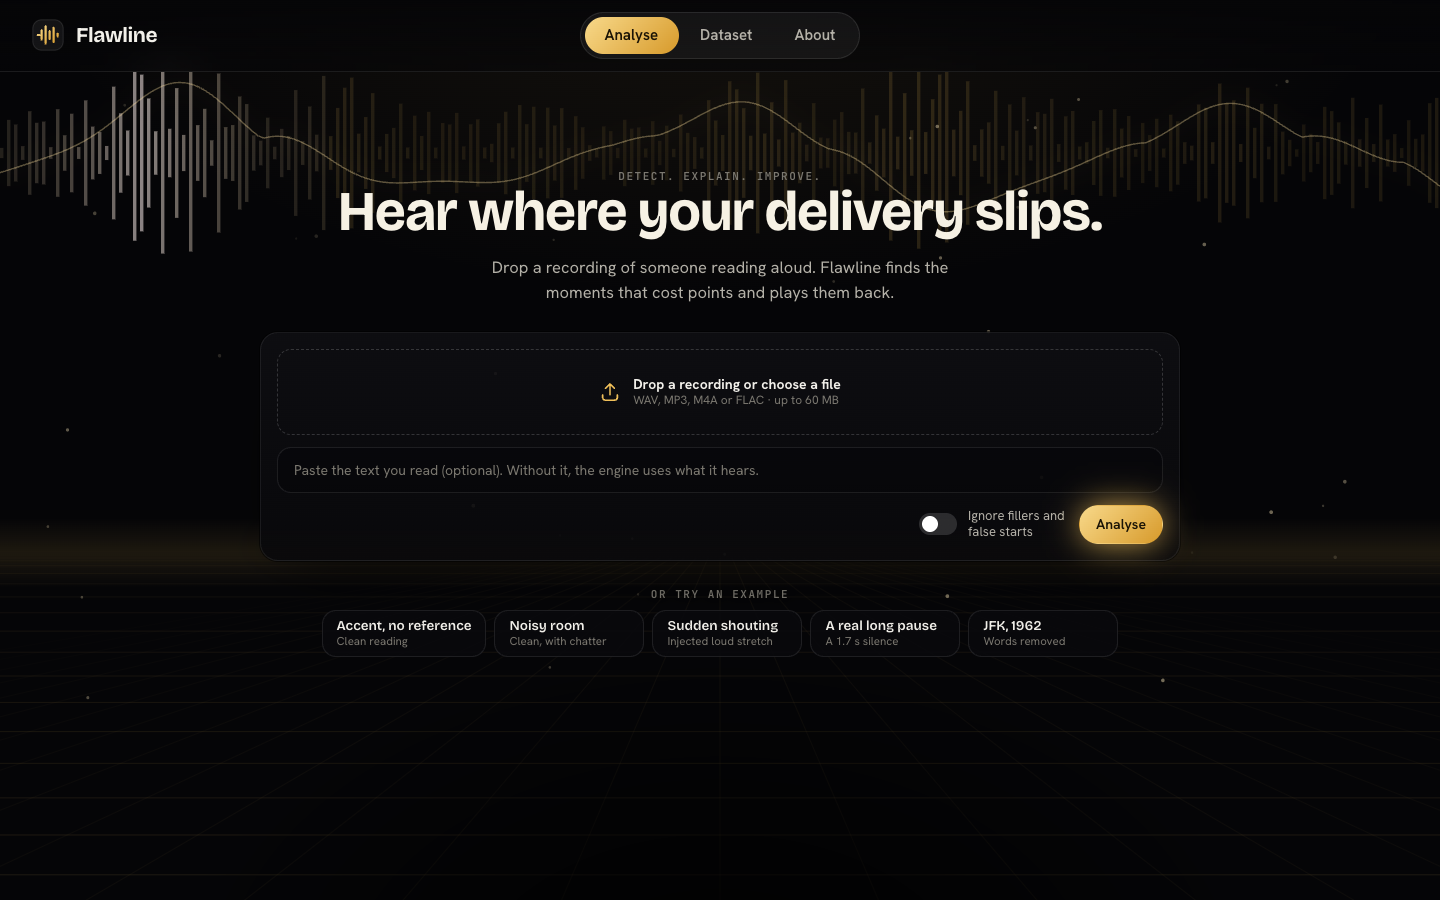
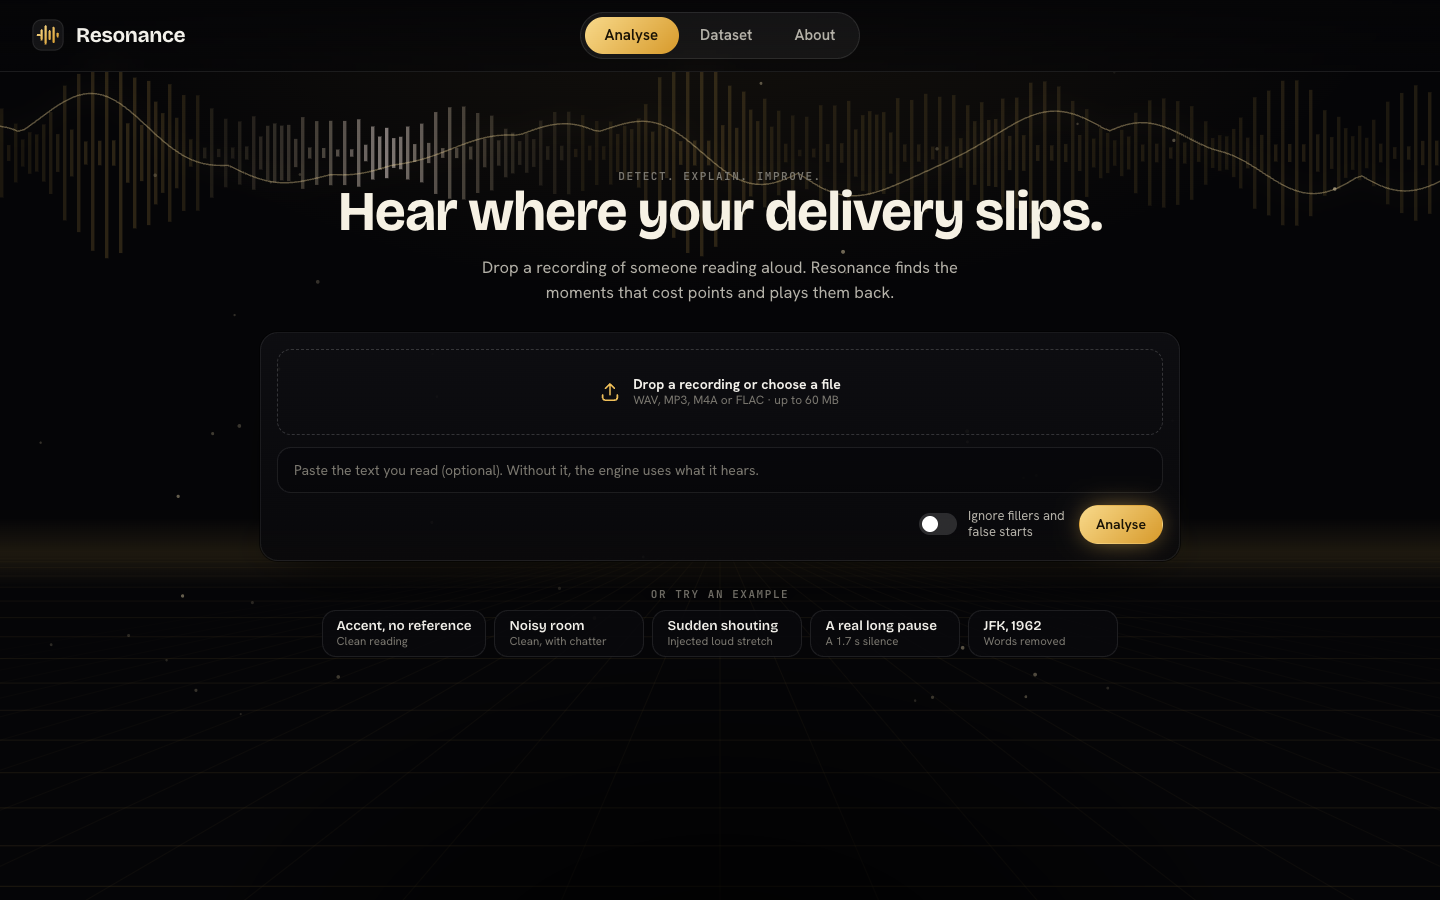
Product name Resonance (tagline Detect. Explain. Improve.); Flawline stays the dataset name

diff --git a/app/static/index.html b/app/static/index.html
@@ -3,7 +3,7 @@
 <head>
 <meta charset="utf-8">
 <meta name="viewport" content="width=device-width, initial-scale=1">
-<title data-brand>Flawline</title>
+<title data-brand>Resonance</title>
 <link rel="icon" href="/static/favicon.svg" type="image/svg+xml">
 <link rel="preconnect" href="https://fonts.googleapis.com">
 <link rel="preconnect" href="https://fonts.gstatic.com" crossorigin>
@@ -17,7 +17,7 @@
     <svg class="logo-sweep" viewBox="0 0 40 40" aria-hidden="true"><defs><linearGradient id="lg" x1="0" y1="0" x2="1" y2="1"><stop offset="0" stop-color="#f8d98a"/><stop offset="1" stop-color="#d79a2b"/></linearGradient></defs>
       <rect x="1" y="1" width="38" height="38" rx="11" fill="rgba(255,255,255,.06)" stroke="rgba(255,255,255,.14)"/>
       <path d="M7 20h3M12 14v12M17 9v22M22 15v10M27 11v18M32 18v4" stroke="url(#lg)" stroke-width="2.6" stroke-linecap="round"/></svg>
-    <span data-brand>Flawline</span>
+    <span data-brand>Resonance</span>
   </a>
   <nav class="nav" id="nav" aria-label="Pages"><span class="pill" id="navpill"></span>
     <a data-page="analyse" href="#analyse">Analyse</a><a data-page="dataset" href="#dataset">Dataset</a><a data-page="about" href="#about">About</a>
@@ -29,7 +29,7 @@
 <!-- ================= ANALYSE ================= -->
 <section class="page on" id="p-analyse">
   <div class="stack">
-    <div class="homehead home-only"><div class="eyebrow" data-tagline>Detect. Explain. Improve.</div><h1>Hear where your delivery slips.</h1><p>Drop a recording of someone reading aloud. <span data-brand>Flawline</span> finds the moments that cost points and plays them back.</p></div>
+    <div class="homehead home-only"><div class="eyebrow" data-tagline>Detect. Explain. Improve.</div><h1>Hear where your delivery slips.</h1><p>Drop a recording of someone reading aloud. <span data-brand>Resonance</span> finds the moments that cost points and plays them back.</p></div>
     <div class="panel input-strip" id="strip">
       <label class="drop" id="drop" tabindex="0">
         <svg viewBox="0 0 24 24" fill="none" stroke="currentColor" stroke-width="1.8" stroke-linecap="round" stroke-linejoin="round"><path d="M12 15V4M7 8l5-5 5 5M4 15v3a3 3 0 0 0 3 3h10a3 3 0 0 0 3-3v-3"/></svg>
@@ -123,7 +123,7 @@
 <section class="page" id="p-about">
   <div class="stack">
     <div class="hero"><h1>Delivery, scored with evidence.</h1>
-      <p><span data-brand>Flawline</span> finds the exact moments a reading slips (a rushed phrase, a misplaced pause, a skipped word), shows what each one cost, and lets you hear it. It was built and checked on real recordings with flaws we added ourselves, so the answer is always known.</p></div>
+      <p><span data-brand>Resonance</span> finds the exact moments a reading slips (a rushed phrase, a misplaced pause, a skipped word), shows what each one cost, and lets you hear it. It was built and checked on real recordings with flaws we added ourselves, so the answer is always known.</p></div>
     <div class="big3" id="big3"></div>
     <div class="panel card" id="how"></div>
     <details class="panel adv" id="rubric"><summary>The scoring rubric</summary><div class="adv-body" id="rub-body"></div></details>

diff --git a/app/static/js/main.js b/app/static/js/main.js
@@ -23,7 +23,7 @@ export function toast(msg) {
   clearTimeout(toastT); toastT = setTimeout(() => t.classList.remove("on"), 6000);
 }
 
-let BRAND = { product: "Flawline", tagline: "Detect. Explain. Improve." };   // replaced by /api/meta (app/brand.json: the one place the product name lives)
+let BRAND = { product: "Resonance", tagline: "Detect. Explain. Improve." };   // replaced by /api/meta (app/brand.json: the one place the product name lives)
 const PAGES = ["analyse", "dataset", "about"];
 const loaded = {};
 function show(name) {
@@ -35,7 +35,7 @@ function show(name) {
   pill.style.left = a.offsetLeft + "px"; pill.style.width = a.offsetWidth + "px";
   if (name === "dataset" && !loaded.dataset) { loaded.dataset = true; initDataset(); }
   if (name === "about" && !loaded.about) { loaded.about = true; initAbout(); }
-  document.title = (BRAND.product || "Flawline") + " · " + name[0].toUpperCase() + name.slice(1);
+  document.title = (BRAND.product || "Resonance") + " · " + name[0].toUpperCase() + name.slice(1);
 }
 
 const meta = await api("/api/meta");

diff --git a/app/server.py b/app/server.py
@@ -144,7 +144,7 @@ def main():
     if HUMAN:
         print(f"Human listening pages: http://localhost:{port}/label  and  http://localhost:{port}/review")
     try:
-        print(f"Flawline: http://localhost:{port}")
+        print(f"{BRAND['product']}: http://localhost:{port}")
         uvicorn.run(app, host=os.environ.get("HOST", "127.0.0.1"), port=port, log_level="warning")
     finally:
         if lab:

diff --git a/README.md b/README.md
@@ -1,7 +1,7 @@
 <!-- BRAND:start -->
-# Flawline
+# Resonance
 
-**Detect. Explain. Improve.**
+**Detect. Explain. Improve.** The product built on the Flawline dataset and benchmark.
 <!-- BRAND:end -->
 
 Contrastive speech analytics (hackathon Track C). Real recorded speakers read a known text; controlled delivery flaws (pace, pauses, intonation, volume, fluency, clarity, text fidelity) are injected at known places and strengths, so every label is ground truth. An engine then finds the flaws blind, says where and why, and scores the delivery.
